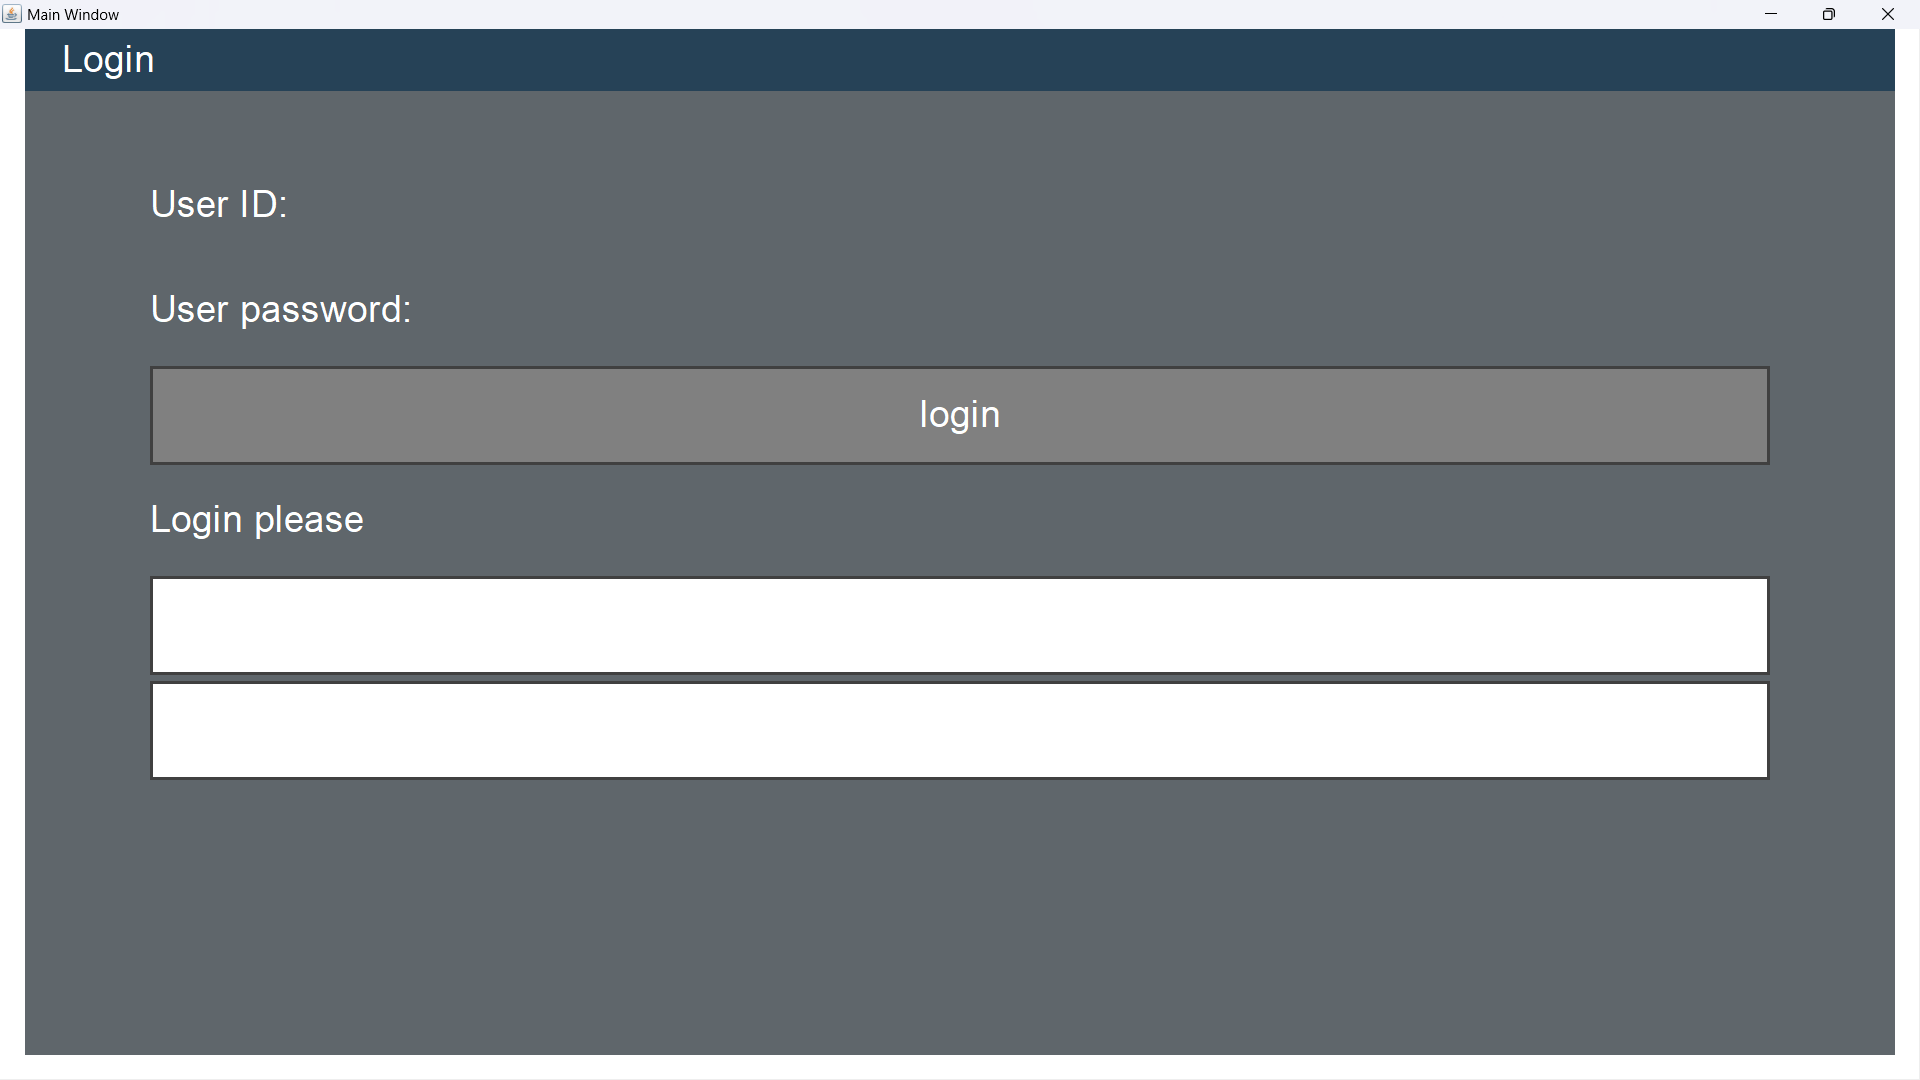
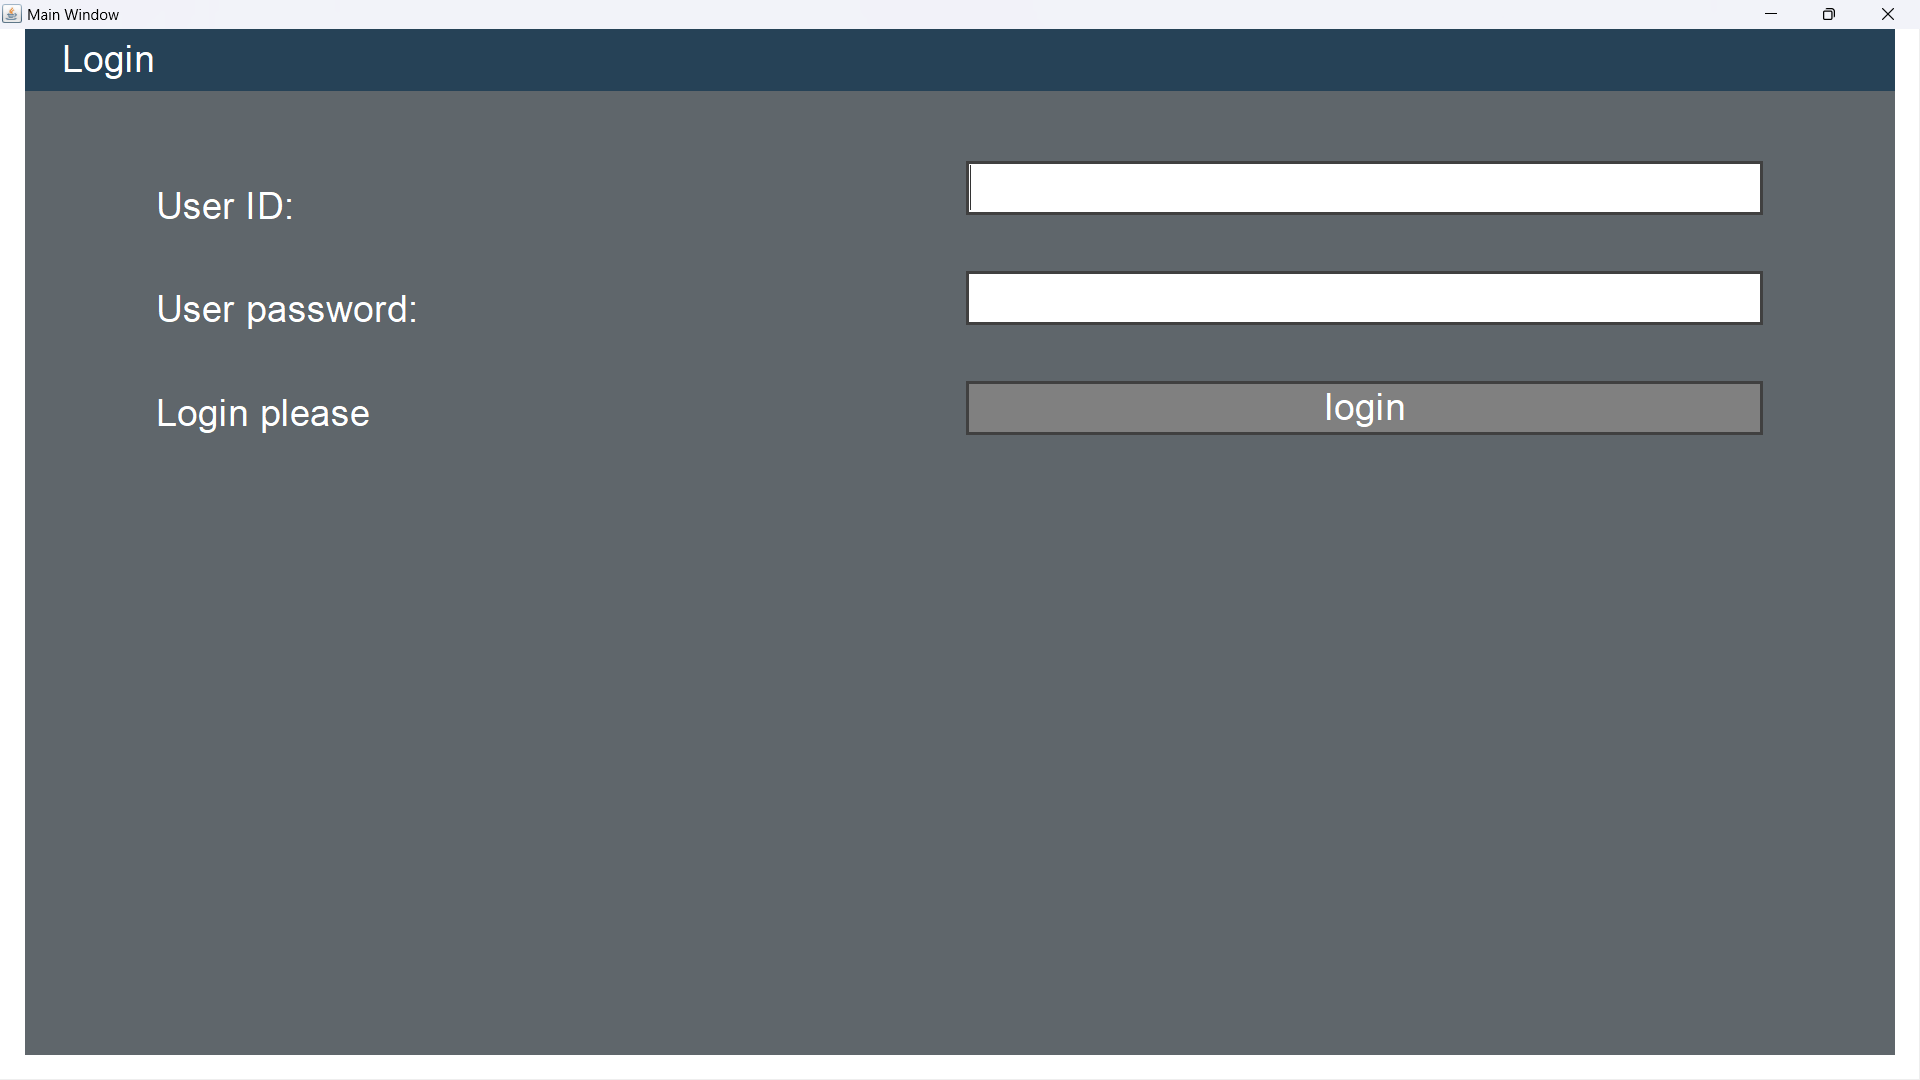
Spider version 1.08
I've improved the login screen layout and added comments to all new files that didn't have any comments. I've also fixed some minor bugs.

diff --git a/README.md b/README.md
@@ -9,14 +9,14 @@ I'm still learning, so I'm tackling new topics that I haven't explored yet with 
 <img align="left" alt="Java" width="50px" style="padding-right:10px;" src="https://cdn.jsdelivr.net/gh/devicons/devicon/icons/java/java-original.svg"/>
 
 
-#
+
 
 ---
 ### Explanation per screen
 
 #### Login screen 
 In this screen you must log in to access the translator.
-![img.png](spider/Img/Login_Screen.png)
+![Login_Screen.png](spider/Img/Login_Screen.png)
 
 #### Home screen
 On the home screen there are sort of small 
@@ -31,13 +31,10 @@ it will be set to Hado language in the bottom field.
 #### HadoR translate screen
 On HadoR screen you can set Hado language back to your own language,
 it works the same as on the Hado Screen.
-![img.png](spider/Img/HadoR_Screen.png)
+![HadoR_Screen.png](spider/Img/HadoR_Screen.png)
 
 ---
 ### what I'm still working on
-
-
-- Login screen layout
 - User ID and password security 
 - Small bugs
 ---
